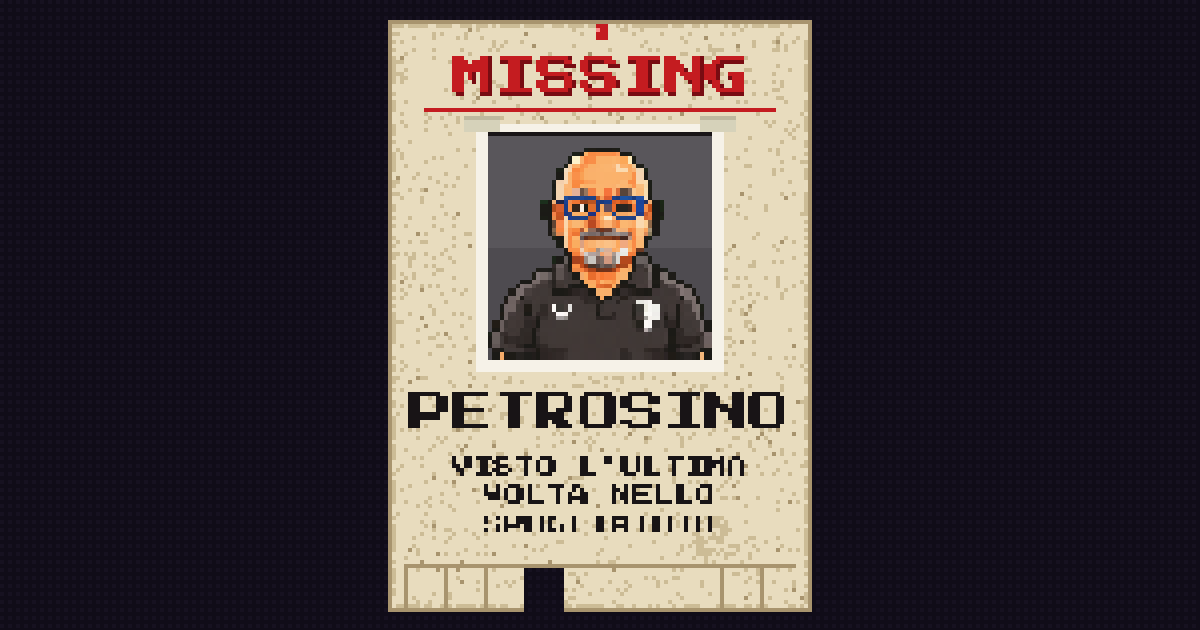
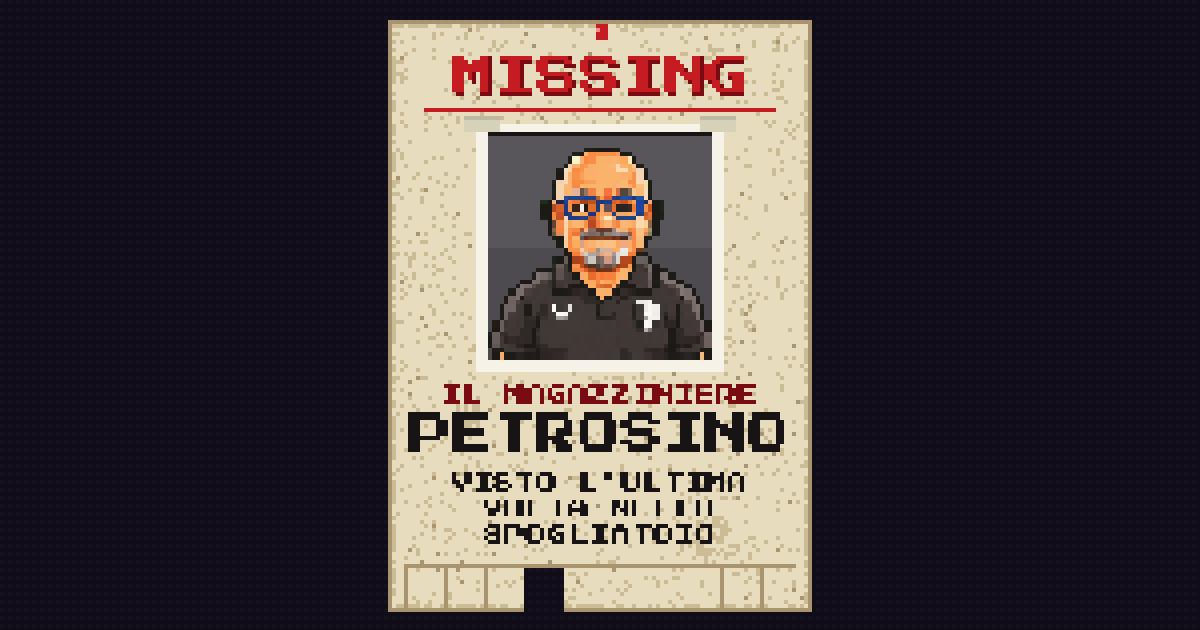
Intro: magazziniere Petrosino in scala con lo spogliatoio; testi 'il Magazziniere Petrosino' e 'Marco, il giardiniere soprannominato il Giaguaro'; lingua automatica dal browser
Claude-Session: https://claude.ai/code/session_0142jpcNLQkyyoPY5gTLk2wv

Changed region(s): [[0.3392, 0.6032, 0.6783, 0.8746]]

diff --git a/game/src/i18n.js b/game/src/i18n.js
@@ -15,36 +15,36 @@ const STRINGS = {
     magicTooMany: 'TROPPI TENTATIVI. RIPROVA PIÙ TARDI',
     magicOffline: 'SERVER NON RAGGIUNGIBILE',
     unlocked: 'SBLOCCATO!',
-    kidnapped: 'HANNO RAPITO PETROSINO!',
+    kidnapped: 'HANNO RAPITO IL MAGAZZINIERE PETROSINO!',
     intro1: 'NOTTE DI HALLOWEEN.',
     intro2: 'LO SPOGLIATOIO DEL MANUZZI.',
-    intro3: 'SENZA PETROSINO, DOMENICA SI GIOCA SENZA MAGLIE.',
+    intro3: 'SENZA IL MAGAZZINIERE PETROSINO, DOMENICA SI GIOCA SENZA MAGLIE.',
     level1: 'LIVELLO 1', level1Name: 'NOTTE AL MANUZZI',
     level2: 'LIVELLO 2', level2Name: 'LA NEBBIA DEL SAVIO',
-    nextStage: 'MA PETROSINO NON È QUI... SI VA AL LIVELLO 2!',
+    nextStage: 'MA IL MAGAZZINIERE PETROSINO NON È QUI... SI VA AL LIVELLO 2!',
     boss2Name: "L'AZDORA INDEMONIATA",
     secPonte: 'PONTE VECCHIO', secPiazza: 'PIAZZA DEL POPOLO', secLibrary: 'BIBLIOTECA MALATESTIANA',
     secScalette: 'VIA DELLE SCALETTE', secMonte: 'IL BELVEDERE DEL MONTE',
     librarySub: 'NON SVEGLIATE I LIBRI...',
     midnight: 'MEZZANOTTE!', midnightSub: 'PUNTI DOPPI',
     wrapped: 'AVVOLTO! SALTA PER LIBERARTI',
-    l2a: 'SENZA CAPPELLO\nNON HO PIÙ POTERI...', l2b: 'VA BENE, PARLO!', l2c: 'IL CONTE HA PORTATO PETROSINO\nOLTRE IL SAVIO, SU AL MONTE!',
+    l2a: 'SENZA CAPPELLO\nNON HO PIÙ POTERI...', l2b: 'VA BENE, PARLO!', l2c: 'IL CONTE HA PORTATO\nIL MAGAZZINIERE PETROSINO\nOLTRE IL SAVIO, SU AL MONTE!',
     azFree: "L'AZDORA È LIBERA!", az1: 'GRAZIE, BURDEL!\nERO STREGATA DAL CONTE...', az2: 'TIENI, UNA PIADINA BUONA.\nIL CONTE VOLA VERSO IL MARE!',
     demoEnd2: 'FINE DEL LIVELLO 2 · IL LIVELLO 3 È IN ARRIVO',
     nextStage2: 'IL CONTE È VOLATO VERSO IL MARE... SI VA A CESENATICO!',
     level3: 'LIVELLO 3', level3Name: 'LA NAVE DEL CONTE',
-    l3a: 'CESENATICO. LA STESSA NOTTE.', l3b: 'AL LARGO ASPETTA LA NAVE DEL CONTE...', l3c: 'PETROSINO È A BORDO!',
+    l3a: 'CESENATICO. LA STESSA NOTTE.', l3b: 'AL LARGO ASPETTA LA NAVE DEL CONTE...', l3c: 'IL MAGAZZINIERE PETROSINO\nÈ A BORDO!',
     secBeach: 'LA SPIAGGIA DI CESENATICO', secPort: 'IL PORTO CANALE', secPier: 'IL MOLO E IL FARO', secShip: 'LA NAVE DEL CONTE',
     octoName: 'LA PIOVRA DEL PORTO CANALE', octoFree: 'IL PORTO È LIBERO!', boatUp: 'LA BARCA TORNA A GALLA!',
     tide: 'LA MAREA!', stolen: 'PALLONE RUBATO!', ink: 'INCHIOSTRO!', wind: 'VENTO!', swarm: 'LO SCIAME!',
     boarding: "ALL'ARREMBAGGIO!",
     boss3Name: 'IL CONTE VAMPIRO', boss3Name2: 'IL DEMONE DELLA NOTTE',
-    count1: 'BENVENUTO A BORDO, BURDEL...', count2: 'PETROSINO RESTA CON ME!', count3: 'ORA VEDRAI LA MIA VERA FORMA!',
+    count1: 'BENVENUTO A BORDO, BURDEL...', count2: 'IL MAGAZZINIERE PETROSINO\nRESTA CON ME!', count3: 'ORA VEDRAI LA MIA VERA FORMA!',
     dawn: "L'ALBA!", countGone: 'IL CONTE È SCONFITTO!',
     pet0: 'GRAZIE, BURDEL!', pet1: 'ORA POSSO SISTEMARE LE MAGLIE\nE POSSIAMO GIOCARE LA PARTITA!',
-    az3: 'NON TROVIAMO IL GIAGUARO,\nIL GIARDINIERE! C\'È L\'ERBA ALTA\nNEL PRATO DELLO STADIO E NON\nSAPPIAMO DOVE SIA FINITO!',
-    hero3: 'È ORA DI SALVARE\nIL GIARDINIERE!',
-    comingSoon: 'COMING SOON...', soonSub: 'DOV\'È FINITO IL GIAGUARO?',
+    az3: 'NON TROVIAMO MARCO,\nIL GIARDINIERE SOPRANNOMINATO\n"IL GIAGUARO"! C\'È L\'ERBA ALTA\nNEL PRATO DELLO STADIO E NON\nSAPPIAMO DOVE SIA FINITO!',
+    hero3: 'È ORA DI SALVARE\nMARCO, IL GIARDINIERE!',
+    comingSoon: 'COMING SOON...', soonSub: 'DOV\'È FINITO MARCO,\nIL GIARDINIERE SOPRANNOMINATO\n"IL GIAGUARO"?',
     bossName: 'IL MAZAPEGÙL', nightmare: 'INCUBO!', capStolen: 'CAPPELLO RUBATO!', parry: 'PARATA!',
     ready: 'PRONTI?', go: 'VIA!',
     time: 'TEMPO', score: 'PUNTI', hi: 'RECORD',
@@ -87,36 +87,36 @@ const STRINGS = {
     magicTooMany: 'TOO MANY TRIES. TRY LATER',
     magicOffline: 'SERVER UNREACHABLE',
     unlocked: 'UNLOCKED!',
-    kidnapped: 'PETROSINO HAS BEEN KIDNAPPED!',
+    kidnapped: 'PETROSINO THE KIT MAN HAS BEEN KIDNAPPED!',
     intro1: 'HALLOWEEN NIGHT.',
     intro2: 'THE MANUZZI DRESSING ROOM.',
-    intro3: 'WITHOUT PETROSINO, SUNDAY\'S MATCH HAS NO KITS.',
+    intro3: 'WITHOUT PETROSINO THE KIT MAN, SUNDAY\'S MATCH HAS NO KITS.',
     level1: 'STAGE 1', level1Name: 'NIGHT AT THE MANUZZI',
     level2: 'STAGE 2', level2Name: 'THE SAVIO FOG',
-    nextStage: "PETROSINO'S NOT HERE... ON TO STAGE 2!",
+    nextStage: "PETROSINO THE KIT MAN ISN'T HERE... ON TO STAGE 2!",
     boss2Name: 'THE POSSESSED AZDORA',
     secPonte: 'THE OLD BRIDGE', secPiazza: 'PIAZZA DEL POPOLO', secLibrary: 'MALATESTA LIBRARY',
     secScalette: 'THE OLD STEPS', secMonte: 'THE MONTE LOOKOUT',
     librarySub: "DON'T WAKE THE BOOKS...",
     midnight: 'MIDNIGHT!', midnightSub: 'DOUBLE POINTS',
     wrapped: 'WRAPPED! JUMP TO BREAK FREE',
-    l2a: 'WITHOUT MY HAT\nI HAVE NO POWERS...', l2b: "ALL RIGHT, I'LL TALK!", l2c: 'THE COUNT TOOK PETROSINO\nOVER THE SAVIO, UP THE MONTE!',
+    l2a: 'WITHOUT MY HAT\nI HAVE NO POWERS...', l2b: "ALL RIGHT, I'LL TALK!", l2c: 'THE COUNT TOOK\nPETROSINO THE KIT MAN\nOVER THE SAVIO, UP THE MONTE!',
     azFree: 'THE AZDORA IS FREE!', az1: 'THANK YOU, BURDEL!\nTHE COUNT HAD BEWITCHED ME...', az2: 'HAVE A GOOD PIADINA.\nTHE COUNT FLED TO THE SEA!',
     demoEnd2: 'END OF STAGE 2 · STAGE 3 COMING SOON',
     nextStage2: 'THE COUNT FLEW TO THE SEA... ON TO CESENATICO!',
     level3: 'STAGE 3', level3Name: "THE COUNT'S SHIP",
-    l3a: 'CESENATICO. THE SAME NIGHT.', l3b: "THE COUNT'S SHIP WAITS OFFSHORE...", l3c: 'PETROSINO IS ON BOARD!',
+    l3a: 'CESENATICO. THE SAME NIGHT.', l3b: "THE COUNT'S SHIP WAITS OFFSHORE...", l3c: 'PETROSINO THE KIT MAN\nIS ON BOARD!',
     secBeach: 'CESENATICO BEACH', secPort: 'THE CANAL PORT', secPier: 'THE PIER AND THE LIGHTHOUSE', secShip: "THE COUNT'S SHIP",
     octoName: 'THE CANAL OCTOPUS', octoFree: 'THE PORT IS FREE!', boatUp: 'THE BOAT IS BACK AFLOAT!',
     tide: 'HIGH TIDE!', stolen: 'BALL STOLEN!', ink: 'INK!', wind: 'WIND!', swarm: 'THE SWARM!',
     boarding: 'ALL ABOARD!',
     boss3Name: 'THE VAMPIRE COUNT', boss3Name2: 'THE NIGHT DEMON',
-    count1: 'WELCOME ABOARD, BURDEL...', count2: 'PETROSINO STAYS WITH ME!', count3: 'NOW SEE MY TRUE FORM!',
+    count1: 'WELCOME ABOARD, BURDEL...', count2: 'PETROSINO THE KIT MAN\nSTAYS WITH ME!', count3: 'NOW SEE MY TRUE FORM!',
     dawn: 'DAWN!', countGone: 'THE COUNT IS DEFEATED!',
     pet0: 'THANK YOU, BURDEL!', pet1: 'NOW I CAN SORT OUT THE SHIRTS\nAND WE CAN PLAY THE MATCH!',
-    az3: "WE CAN'T FIND THE JAGUAR,\nOUR GARDENER! THE GRASS IS TALL\nON THE STADIUM PITCH AND\nNOBODY KNOWS WHERE HE WENT!",
-    hero3: "IT'S TIME TO SAVE\nTHE GARDENER!",
-    comingSoon: 'COMING SOON...', soonSub: 'WHERE IS THE JAGUAR?',
+    az3: "WE CAN'T FIND MARCO,\nTHE GARDENER THEY CALL\n\"THE JAGUAR\"! THE PITCH GRASS\nIS GROWING TALL AND NOBODY\nKNOWS WHERE HE WENT!",
+    hero3: "IT'S TIME TO SAVE\nMARCO THE GARDENER!",
+    comingSoon: 'COMING SOON...', soonSub: 'WHERE IS MARCO,\nTHE GARDENER THEY CALL\n"THE JAGUAR"?',
     bossName: 'THE MAZAPEGÙL', nightmare: 'NIGHTMARE!', capStolen: 'HAT STOLEN!', parry: 'SAVED!',
     ready: 'READY?', go: 'GO!',
     time: 'TIME', score: 'SCORE', hi: 'HI',
@@ -146,17 +146,29 @@ const STRINGS = {
   },
 };
 
-let lang = 'it';
+// lingua di partenza: quella scelta a mano (se c'è), altrimenti quella del browser.
+// Italiano se il browser è in italiano (o lo mette tra le lingue preferite), inglese per tutti gli altri.
+function browserLang() {
+  try {
+    const list = (navigator.languages && navigator.languages.length ? navigator.languages : [navigator.language || ''])
+      .map((l) => String(l).toLowerCase());
+    if (!list[0]) return 'it';
+    // la prima lingua decide; l'italiano vince anche se è la seconda scelta (es. inglese + italiano)
+    return list.slice(0, 2).some((l) => l.startsWith('it')) ? 'it' : 'en';
+  } catch (e) { return 'it'; }
+}
+
+let lang = browserLang();
 try {
-  const saved = localStorage.getItem('gng_lang');
-  if (saved) lang = saved;
-  else if (!(navigator.language || 'it').toLowerCase().startsWith('it')) lang = 'en';
+  const saved = localStorage.getItem('gng_lang');   // solo se l'ha cambiata il giocatore
+  if (saved === 'it' || saved === 'en') lang = saved;
 } catch (e) { /* ignora */ }
 
 export const getLang = () => lang;
-export function setLang(l) {
+// remember = true solo quando è il giocatore a cambiarla: così la scelta automatica resta automatica
+export function setLang(l, remember = false) {
   lang = l;
-  try { localStorage.setItem('gng_lang', l); } catch (e) { /* ignora */ }
+  if (remember) { try { localStorage.setItem('gng_lang', l); } catch (e) { /* ignora */ } }
   document.documentElement.lang = l;
 }
 export const t = (k) => (STRINGS[lang] && STRINGS[lang][k]) || STRINGS.it[k] || k;

diff --git a/game/src/scenes/IntroScene.js b/game/src/scenes/IntroScene.js
@@ -41,7 +41,10 @@ export class IntroScene extends Phaser.Scene {
     this.dark = this.add.rectangle(W / 2, H / 2, W, H, 0x000000, 0).setDepth(5);
 
     const realPet = this.textures.get('petrosino').has('pet0');
-    this.pet = this.add.sprite(room ? 112 : 128, room ? 150 : realPet ? 146 : 154, 'petrosino', realPet ? 'pet0' : undefined).setDepth(6);
+    // nello spogliatoio dipinto i personaggi vanno in scala con la stanza: il magazziniere è grande il doppio
+    this.big = room && realPet;
+    this.pet = this.add.sprite(room ? 112 : 128, this.big ? 130 : room ? 150 : realPet ? 146 : 154, 'petrosino', realPet ? 'pet0' : undefined).setDepth(6);
+    if (this.big) this.pet.setScale(2);
     if (realPet && this.anims.exists('pet_idle')) this.pet.play('pet_idle');
     this.bag = this.add.image(104, 162, 'kitbag').setDepth(6).setVisible(!room);
     if (!realPet) this.tweens.add({ targets: this.pet, y: 152, yoyo: true, repeat: -1, duration: 420 });
@@ -87,9 +90,10 @@ export class IntroScene extends Phaser.Scene {
   countAppears() {
     this.cameras.main.flash(120, 255, 255, 255);
     const realCount = this.textures.get('count').has('vampSide');
-    this.count = this.add.sprite(212, realCount ? 128 : 136, 'count').play('count_fly').setDepth(8).setScale(realCount ? 1 : 1.5);
+    const cs = this.big && realCount ? 1.7 : realCount ? 1 : 1.5;      // il Conte resta più alto di Petrosino
+    this.count = this.add.sprite(this.big ? 226 : 212, this.big ? 104 : realCount ? 128 : 136, 'count').play('count_fly').setDepth(8).setScale(cs);
     this.count.setAlpha(0);
-    this.tweens.add({ targets: this.count, alpha: 1, x: realCount ? 174 : 146, duration: 400 });
+    this.tweens.add({ targets: this.count, alpha: 1, x: this.big ? 182 : realCount ? 174 : 146, duration: 400 });
     this.time.delayedCall(700, () => {
       Sfx.hurt();
       this.tweens.killTweensOf(this.pet);
@@ -98,9 +102,9 @@ export class IntroScene extends Phaser.Scene {
       this.pet.setFlipX(true).setTint(0x9fe8ff);
       this.time.delayedCall(250, () => {
         // il vampiro lo afferra: Petrosino finisce tra i suoi artigli, davanti al mantello
-        if (this.pet.texture.has('petCarried')) this.pet.setFrame('petCarried').setDepth(9).setPosition(this.count.x - 8, this.count.y + 4);
+        if (this.pet.texture.has('petCarried')) this.pet.setFrame('petCarried').setDepth(9).setPosition(this.count.x - 8 * cs, this.count.y + 4 * cs);
         if (this.count.texture.has('vampGrab')) { this.count.anims.stop(); this.count.setFrame('vampGrab').setFlipX(false); }
-        this.tweens.add({ targets: [this.count, this.pet], x: '+=200', y: '-=120', duration: 1200, ease: 'Cubic.easeIn' });
+        this.tweens.add({ targets: [this.count, this.pet], x: '+=240', y: '-=160', duration: 1200, ease: 'Cubic.easeIn' });
       });
     });
     this.say('AAAAAAAH!');

diff --git a/game/src/systems/shareCard.js b/game/src/systems/shareCard.js
@@ -11,9 +11,9 @@ const SCALE = 4;
 export const CARD = { story: [270, 480], post: [270, 338] };
 
 const T = {
-  it: { pre: 'CESENA FC PRESENTA', best: 'IL MIO RECORD', rank: 'IN CLASSIFICA', lvl: 'LIVELLO', saved: 'HO SALVATO PETROSINO!',
+  it: { pre: 'CESENA FC PRESENTA', best: 'IL MIO RECORD', rank: 'IN CLASSIFICA', lvl: 'LIVELLO', saved: 'HO SALVATO IL MAGAZZINIERE\nPETROSINO!',
     dare: 'BATTIMI SE CI RIESCI!', play: 'GIOCA ANCHE TU', places: { 1: 'NOTTE AL MANUZZI', 2: 'LA NEBBIA DEL SAVIO', 3: 'LA NAVE DEL CONTE' } },
-  en: { pre: 'CESENA FC PRESENTS', best: 'MY HIGH SCORE', rank: 'ON THE LEADERBOARD', lvl: 'STAGE', saved: 'I SAVED PETROSINO!',
+  en: { pre: 'CESENA FC PRESENTS', best: 'MY HIGH SCORE', rank: 'ON THE LEADERBOARD', lvl: 'STAGE', saved: 'I SAVED PETROSINO\nTHE KIT MAN!',
     dare: 'BEAT ME IF YOU CAN!', play: 'PLAY NOW', places: { 1: 'NIGHT AT THE MANUZZI', 2: 'THE SAVIO FOG', 3: "THE COUNT'S SHIP" } },
 };
 
@@ -146,8 +146,8 @@ export function drawCard(scene, kind, data) {
   y += story ? 22 : 21;
   if (data.rank) { pixText(ctx, `#${data.rank} ${L.rank}`, w / 2, y, { size: 8, color: '#f4f4f0', align: 'center', stroke: '#000' }); y += 13; }
   const place = data.cleared ? L.saved : `${L.lvl} ${data.level} · ${L.places[data.level] || ''}`;
-  pixText(ctx, place, w / 2, y, { size: 8, color: data.cleared ? '#7fd06a' : '#c8c4e8', align: 'center', stroke: '#000' });
-  y += story ? 22 : 15;
+  place.split('\n').forEach((ln, i) => pixText(ctx, ln, w / 2, y + i * 11, { size: 8, color: data.cleared ? '#7fd06a' : '#c8c4e8', align: 'center', stroke: '#000' }));
+  y += (story ? 22 : 15) + (place.split('\n').length - 1) * 11;
 
   // la sfida
   const dareY = story ? h - 70 : h - 50;

diff --git a/server/lib/maintenance.html b/server/lib/maintenance.html
@@ -6,10 +6,10 @@
   <meta name="theme-color" content="#07050f">
   <meta name="robots" content="noindex">
   <title>MISSING · GHOSTS 'N GOALS · Cesena FC</title>
-  <meta name="description" content="Hanno rapito Petrosino. Presto online l'arcade di Halloween del Cesena FC. #DAIBURDEL">
+  <meta name="description" content="Hanno rapito il Magazziniere Petrosino. Presto online l'arcade di Halloween del Cesena FC. #DAIBURDEL">
   <meta property="og:type" content="website">
-  <meta property="og:title" content="MISSING: PETROSINO">
-  <meta property="og:description" content="Hanno rapito Petrosino. Presto online l'arcade di Halloween del Cesena FC. #DAIBURDEL">
+  <meta property="og:title" content="MISSING: IL MAGAZZINIERE PETROSINO">
+  <meta property="og:description" content="Hanno rapito il Magazziniere Petrosino. Presto online l'arcade di Halloween del Cesena FC. #DAIBURDEL">
   <meta property="og:image" content="%BASE%missing/og.png">
   <meta property="og:image:width" content="1200">
   <meta property="og:image:height" content="630">
@@ -54,9 +54,9 @@
 <body>
   <div class="flicker" aria-hidden="true"></div>
   <main class="wall">
-    <h1 class="sr">MISSING: Petrosino</h1>
+    <h1 class="sr">MISSING: il Magazziniere Petrosino</h1>
     <img class="poster" src="%BASE%missing/poster.png" width="640" height="896"
-         alt="Volantino: MISSING. Foto di Petrosino. Petrosino, visto l'ultima volta nello spogliatoio.">
+         alt="Volantino: MISSING. Foto del Magazziniere Petrosino. Il Magazziniere Petrosino, visto l'ultima volta nello spogliatoio.">
   </main>
 </body>
 </html>

diff --git a/game/index.html b/game/index.html
@@ -6,9 +6,9 @@
   <meta name="theme-color" content="#050507" />
   <meta name="apple-mobile-web-app-capable" content="yes" />
   <title>GHOSTS 'N GOALS · Cesena FC</title>
-  <meta name="description" content="L'arcade di Halloween del Cesena FC. Salva Petrosino, entra in classifica. DAIBURDEL!" />
+  <meta name="description" content="L'arcade di Halloween del Cesena FC. Salva il Magazziniere Petrosino, entra in classifica. DAIBURDEL!" />
   <meta property="og:title" content="GHOSTS 'N GOALS · Cesena FC" />
-  <meta property="og:description" content="Hanno rapito Petrosino. Tocca a te. L'arcade di Halloween del Cesena FC." />
+  <meta property="og:description" content="Hanno rapito il Magazziniere Petrosino. Tocca a te. L'arcade di Halloween del Cesena FC." />
 </head>
 <body>
   <div id="room">

diff --git a/game/src/scenes/TitleScene.js b/game/src/scenes/TitleScene.js
@@ -123,7 +123,7 @@ export class TitleScene extends Phaser.Scene {
     // durante la combinazione segreta B e A non fanno partire la partita
     const comboEnd = !Cheat.on && Cheat.combo >= 8 && time - Cheat.comboAt < 1000;
     if (Input.pressed('up') || Input.pressed('down')) {
-      setLang(getLang() === 'it' ? 'en' : 'it');
+      setLang(getLang() === 'it' ? 'en' : 'it', true);
       Sfx.blip();
       this.buildTitle();
       this.buildBoard();

diff --git a/server/share_img.php b/server/share_img.php
@@ -72,9 +72,9 @@ if ($s) {
     px_text($im, $font, (string) $s['nickname'], $x, 30, 8, $rgb('#9fe8ff'), 'left', $black);
     px_text($im, $font, $en ? 'MY HIGH SCORE' : 'IL MIO RECORD', $x, 46, 8, $rgb('#ff3b3b'), 'left', $black);
     px_text($im, $font, str_pad((string) (int) $s['score'], 7, '0', STR_PAD_LEFT), $x, 58, 16, $rgb('#ffd23f'), 'left', $black);
-    px_text($im, $font, '#' . $s['rank'] . ($en ? ' ON THE BOARD' : ' IN CLASSIFICA'), $x, 82, 8, $rgb('#f4f4f0'), 'left', $black);
-    $lvl = $gold ? ($en ? 'PETROSINO SAVED!' : 'PETROSINO SALVATO!') : (($en ? 'STAGE ' : 'LIVELLO ') . (int) $s['level_reached']);
-    px_text($im, $font, $lvl, $x, 96, 8, $rgb($gold ? '#7fd06a' : '#c8c4e8'), 'left', $black);
+    px_text($im, $font, '#' . $s['rank'] . ($en ? ' ON THE BOARD' : ' IN CLASSIFICA'), $x, 80, 8, $rgb('#f4f4f0'), 'left', $black);
+    $lvl = $gold ? ($en ? ['KIT MAN PETROSINO', 'SAVED!'] : ['IL MAGAZZINIERE', 'PETROSINO SALVATO!']) : [($en ? 'STAGE ' : 'LIVELLO ') . (int) $s['level_reached']];
+    foreach ($lvl as $i => $ln) px_text($im, $font, $ln, $x, 92 + $i * 10, 8, $rgb($gold ? '#7fd06a' : '#c8c4e8'), 'left', $black);
     imagefilledrectangle($im, $x - 4, 114, SW - 6, 140, $black);
     imagefilledrectangle($im, $x - 4, 114, SW - 6, 114, $rgb('#ff7a1a'));
     imagefilledrectangle($im, $x - 4, 140, SW - 6, 140, $rgb('#ff7a1a'));
@@ -86,9 +86,9 @@ if ($s) {
         imagecopyresized($im, $c, 24, 30, 0, 0, imagesx($c) * 3 / 2, imagesy($c) * 3 / 2, imagesx($c), imagesy($c));
         imagedestroy($c);
     }
-    px_text($im, $font, $en ? 'PETROSINO HAS' : 'HANNO RAPITO', 140, 44, 8, $rgb('#ff3b3b'), 'left', $black);
-    px_text($im, $font, $en ? 'BEEN KIDNAPPED!' : 'PETROSINO!', 140, 56, 8, $rgb('#ff3b3b'), 'left', $black);
-    px_text($im, $font, $en ? "IT'S UP TO YOU." : 'TOCCA A TE.', 140, 80, 8, $rgb('#f4f4f0'), 'left', $black);
+    $lines = $en ? ['PETROSINO THE', 'KIT MAN HAS BEEN', 'KIDNAPPED!'] : ['HANNO RAPITO IL', 'MAGAZZINIERE', 'PETROSINO!'];
+    foreach ($lines as $i => $ln) px_text($im, $font, $ln, 140, 40 + $i * 12, 8, $rgb('#ff3b3b'), 'left', $black);
+    px_text($im, $font, $en ? "IT'S UP TO YOU." : 'TOCCA A TE.', 140, 84, 8, $rgb('#f4f4f0'), 'left', $black);
     px_text($im, $font, '#DAIBURDEL', 140, 104, 8, $rgb('#ff7a1a'), 'left', $black);
 }
 

diff --git a/tools/build_missing.py b/tools/build_missing.py
@@ -103,16 +103,19 @@ def main():
         img[ty:ty + 6, tx:tx + 14] = (214, 210, 186)
         img[ty, tx:tx + 14] = (190, 184, 158)
 
-    # PETROSINO
-    y = py + bh + 12
+    # IL MAGAZZINIERE / PETROSINO
+    y = py + bh + 9
+    m = text_mask('IL MAGAZZINIERE', 8)
+    paste_mask(img, m, (W - m.shape[1]) // 2, y, RED_D)
+    y += 11
     m = text_mask('PETROSINO', 16)
     x = (W - m.shape[1]) // 2
     paste_mask(img, m, x, y, INK)
-    y += 24
+    y += 22
     for line in ("VISTO L'ULTIMA", 'VOLTA NELLO', 'SPOGLIATOIO'):
         m = text_mask(line, 8)
         paste_mask(img, m, (W - m.shape[1]) // 2, y, INK)
-        y += 11
+        y += 10
 
     # le linguette da strappare in fondo, con la puntina rossa in alto
     ty0 = H - 18

diff --git a/server/share.php b/server/share.php
@@ -16,7 +16,7 @@ if ($s) {
     $img = $base . 'share_img.php?id=' . (int) $s['id'] . ($en ? '&lang=en' : '');
 } else {
     $title = "GHOSTS 'N GOALS · Cesena FC";
-    $desc = $en ? "Petrosino has been kidnapped. It's up to you. The Cesena FC Halloween arcade." : "Hanno rapito Petrosino. Tocca a te. L'arcade di Halloween del Cesena FC.";
+    $desc = $en ? "Petrosino the kit man has been kidnapped. It's up to you. The Cesena FC Halloween arcade." : "Hanno rapito il Magazziniere Petrosino. Tocca a te. L'arcade di Halloween del Cesena FC.";
     $img = $base . 'share_img.php' . ($en ? '?lang=en' : '');
 }
 $game = $base . '?utm_source=share';
